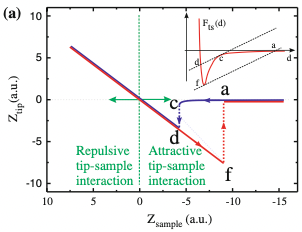
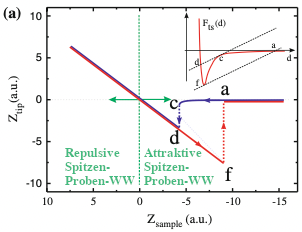
Davids Korrektur

Changed region(s): [[0.2086, 0.6034, 0.447, 0.8147], [0.4768, 0.6336, 0.7152, 0.8147]]

diff --git a/AFM/content/theorie.tex b/AFM/content/theorie.tex
@@ -3,10 +3,12 @@ Die Erfindung des \glqq scanning tunneling microscope\grqq (STM) machte erstmals
 Das grundlegende Konzept beruht dabei auf der Nutzung des stark abstandsabhängigen Tunnelstroms zwischen der Probe und einer scharfen Spitze.
 Eben dieses Funktionsprinzip stellt eine intrinsische Begrenzung des STM dar.
 Nur metallische Oberflächen können mit dieser Methode betrachtet werden.
-Das \glqq atomic force microscope\grqq (AFM) macht es möglich auch nicht-leitende Materialien aufzulösen, da hierbei die Kraft zwischen Spitze und Probe bei Distanzen von ca. $\SI{1}{nm}$ ausgenutzt wird.
-Es bildet die Weiterentwicklung des STM und des stylus profilometers, dessen Auflösung durch die Größe seiner Spitze ($\sim 1\mu m$) begrenzt ist.
+Das \glqq atomic force microscope\grqq (AFM) macht es möglich auch nicht-leitende Materialien aufzulösen.
+Hierbei wird eine auf einem Cantilever angebrachte Spitze benutzt, um die intermolekulare Kraft zwischen Spitze und Probe bei Distanzen von ca. $\SI{1}{nm}$ über die Auslenkung des Cantilevers zu bestimmen.
+So kann ein Höhenprofil der Probe durch Abrastern der Probe erzeugt werden.
+Das AFM bildet die Weiterentwicklung des STM und des \glqq stylus profilometers\grqq, dessen Auflösung durch die Größe seiner Spitze ($\sim 1\mu m$) begrenzt ist.
 Ein weiterer gravierender Vorteil gegenüber dem STM besteht beim AFM darin, dass es auch an der Luft und bei Raumtemperatur bedient werden kann.
-Vor diesem Hintergrund wurden in diesem Experiment mehrere Proben unter diesen Normalbedingungen vermessen, um die Leistungskraft dieses Verfahrens bei der Untersuchung ihrer Topographien aufzuzeigen.
+Vor diesem Hintergrund wurden in diesem Experiment mehrere Proben unter diesen Normalbedingungen vermessen, um die Leistungsfähigkeit des AFM bei der Untersuchung ihrer Topographien aufzuzeigen.
 
 \section{Theorie}
 \subsection{Kraft zwischen Spitze und Probe}
@@ -15,30 +17,32 @@ Vor diesem Hintergrund wurden in diesem Experiment mehrere Proben unter diesen N
     \begin{description}
         \item[Dipol-Dipol-WW:]  Diese Kraft bildet sich zwischen zwei permanent polaren Molekülen aus, die einander anziehen.
         \item[Induktions-WW:]  Kraft zwischen polarem und neutralem Molekül, wobei das Polare dem Neutralen ein magnetisches Dipolmoment induziert.
-        \item[London-Dispersions-WW:]  Diese Kraft wirkt zwischen zwei neutralen Molekülen. Durch Fluktuationen entstehen spontane elektrische Dipole, die sich gegenseitig anziehen.
+        \item[London-Dispersions-WW:]  Diese Kraft wirkt zwischen zwei neutralen Molekülen. Durch quantenmechanisch bedingte Fluktuationen entstehen spontane elektrische Dipole, welche in den umliegenden Molekülen Dipolmomente induzieren. So entsteht eine attraktive Wechselwirkung.
     \end{description}
-    Die letzte überwiegt meist gegenüber den anderen beiden Kräften. \\
+    Da es sich um ein aus einer Vielzahl von Molekülen bestehendes System handelt, ergibt sich die Gesamtwechselwirkung zwischen Spitze und Probe nach dem Gesetz der großen Zahlen als ein konstanter Wert.
+    Die letzte überwiegt meist gegenüber den anderen beiden Kräften, da die wenigsten Moleküle ein großes permanentes Dipolmoment aufweisen. \\
     Unter der Annahme zweier Edelgsatome lässt sich ihr Wechselwirkungspotential mit der Abstandsabhängigkeit
     \begin{equation*}
-        V_{\mathrm{VdW}(r)} \propto -\frac{1}{r^6}
+        V_{\mathrm{VdW}}(r) \propto -\frac{1}{r^6}
     \end{equation*}
     ausdrücken.
 
-    Bei einem Spitzen-Proben Abstand von $< \SI{1}{nm}$ entstehen kurzreichweitige WW aufgrund des Überlapps zwischen den elektronischen Zustandsdichten.
-    Wird der Abstand in fallender Ordnung durchlaufen, so ist die Wechselwirkung erst attraktiv, da durch den Überlapp der äußeren offenen Schalen chemische Bindungen entstehen, die die Gesamtenergie minimieren. \\
-    \setlength{\columnsep}{10pt}
-    \begin{wrapfigure}{r}{0.4\textwidth}
-        \centering\captionsetup{margin={0.5cm,-1cm}, format=plain}
-        \includegraphics[width=0.48\textwidth]{bilder/Lennard_Jones_Potential.png}
-        \caption{Hier ist das Lennard-Jones-Potential, seine zugehörige Kraft und dessen negierte Ableitung dargestellt. \cite{voigtlaender}} \vspace*{-0.5cm}
+    Bei einem Spitzen-Proben Abstand von $< \SI{1}{nm}$ entstehen kurzreichweitige Wechselwirkung (WW) aufgrund des Überlapps zwischen den elektronischen Zustandsdichten.
+    Wird der Abstand verringert, so ist die Wechselwirkung erst attraktiv, da durch den Überlapp der äußeren offenen Schalen chemische Bindungen entstehen, die die Gesamtenergie minimieren. \\
+    \setlength{\columnsep}{15pt}
+    \begin{wrapfigure}{r}{0.55\textwidth}
+        \vspace{-0.5cm}
+        \centering\captionsetup{margin={0.5cm,0cm}, format=plain}
+        \includegraphics[width=0.55\textwidth]{bilder/Lennard_Jones_Potential.png}
+        \caption{Hier ist das Lennard-Jones-Potential dargestellt. \cite{voigtlaender}} \vspace*{-0.5cm}
         \label{fig:Lennard_Jones_Potential}
     \end{wrapfigure}
-    Dann kommen sich die Spitze und Probe so nah, dass die geschlossenen Orbitale überlappen.
+    Bei weiterer Verringerung kommen sich die Spitze und Probe so nah, dass die geschlossenen Orbitale überlappen.
     Die kernnahen Elektronen müssen aufgrund des Pauli-Verbotes in höhere Zustände ausweichen.
     D.h. sie müssen effektiv weiter vom Kern des anderen, an der Wechselwirkung beteiligten, Atoms entfernt sein.
     Diese Wechselwirkung wird durch
     \begin{equation}
-        V_{\mathrm{Pauli}(r)} \propto \frac{1}{r^{12}}
+        V_{\mathrm{Pauli}}(r) \propto \frac{1}{r^{12}}
     \end{equation}
     beschrieben.
     Die gesamte Wechselwirkung zwischen Sptize und Probe lässt sich also in erster Näherung durch das Lennard-Jones-Potential
@@ -47,24 +51,25 @@ Vor diesem Hintergrund wurden in diesem Experiment mehrere Proben unter diesen N
         \label{eqn:Lennard_Jones_Potential}
     \end{equation}
     schreiben, wobei $U_0$ die Tiefe des Potentialminimums ist und $R_a$ der Abstand ist, bei dem $V(r) = 0$ gilt.
-    Im obersten Graphen in \autoref{fig:Lennard_Jones_Potential} ist das Potential mit den soeben beschriebenen Parametern zu erkennen.
+    In \autoref{fig:Lennard_Jones_Potential} ist das Potential mit den soeben beschriebenen Parametern zu erkennen.
     Die gestrichelte Linie grenzt den repulsiven von dem attraktiven Effekt der Wechselwirkung ab.
 
     Eine weitere Kraft, die bei der Wechselwirkung zwischen Spitze und Probe eine große Rolle spielt, ist die elektrostatische Wechselwirkung.
-    Sie entsteht durch unterschiedliche Austrittsarbeiten bzw. durch eine Ladung auf der Spitze und Probe, sodass eine weitere Kraft auf die Spitze wirkt und auf die Kraft-Abstandskurve Einfluss nimmt.
-    Da dies beim AFM nicht erwünscht ist wird eine Bias-Spannung angelegt, die die Potentialdifferenz ausgleichen soll nach 
+    Sie entsteht durch eine Differenz $\upDelta \Phi$ zwischen den unterschiedliche Austrittsarbeiten bzw. durch eine Ladung auf der Spitze und der Probe, sodass eine weitere Kraft auf die Spitze samt Cantilever wirkt und auf die Kraft-Abstandskurve Einfluss nimmt.
+    Da dies beim AFM nicht erwünscht ist wird eine Bias-Spannung $V_{\mathrm{bias}}$ angelegt, die die Potentialdifferenz $\upDelta V$ ausgleichen soll nach 
     \begin{equation}
-        \Delta V = V_{\mathrm{bias}} - \Delta \Phi \cdot e = 0 \quad \Leftrightarrow \quad V_{\mathrm{bias}} = \Delta \Phi \cdot e \;.
+        \upDelta V = V_{\mathrm{bias}} - \upDelta \Phi \cdot e = 0 \quad \Leftrightarrow \quad V_{\mathrm{bias}} = \upDelta \Phi \cdot e \;.
     \end{equation}
     Die Kraft zwischen Spitze und Probe ist näherungsweise gegeben als
     \begin{equation}
-        F_{el}(z) \approx -\pi \epsilon_0 \frac{R}{z} \cdot \Delta V^2 \;,
+        F_{el}(z) \approx -\pi \epsilon_0 \frac{R}{z} \cdot \upDelta V^2 \;,
     \end{equation}
     wenn die Spitze als Kugel auf einem Kegel und die Probe als unendliche Ebene betrachtet wird, wobei $R$ der Radius der Kugel ist.
-    Es ist zu erkennen, dass die Kraft als Funktion der Bias-Spannung $F_{el}(V_{\mathrm{bias}})$ eine umgedrehte Parabel mit einem Maximum an der Stelle $\Delta \Phi \cdot e$ darstellt.
-    Die Differenz Austrittsarbeit zwischen Spitze und Probe kann also durch Auftragen der Kraft gegen die Bias-Spannung bestimmt werden.
+    Es ist zu erkennen, dass die Kraft als Funktion der Bias-Spannung $F_{el}(V_{\mathrm{bias}})$ eine umgedrehte Parabel mit einem Maximum an der Stelle $\upDelta \Phi \cdot e$ darstellt.
+    Die Differenz der Austrittsarbeit zwischen Spitze und Probe kann also durch Auftragen der Kraft gegen die Bias-Spannung bestimmt werden.
 
 \subsection{Snap-to-Contact}
+\label{sec:Snap}
     Ein wichtiges Konzept um die Funktionsweise von AFM-Messungen im Contact-Mode zu verstehen ist der Snap-to-Contact bzw. Snap-out-of-Contact der Spitze zur Probenoberfläche.
     Im dynamischen Modus wird dieser Snap-to-Contact gemieden, da die Oszillation des Cantilevers sonst wegen des schmalen Potentialminimums gestoppt werden würde, mehr dazu in \autoref{sec:messmodi}.
     Aus diesem Grund werden die Bedingungen für den Snap-to-Contact hier betrachtet.
@@ -73,6 +78,11 @@ Vor diesem Hintergrund wurden in diesem Experiment mehrere Proben unter diesen N
     \begin{equation}
         U_{\mathrm{cant}}(z) = \frac{1}{2}k(z - z_0)^2
         \label{eqn:harm_Potential}
+    \end{equation}
+    und der Kraft
+    \begin{equation}
+        F_{\mathrm{cant}}(z) = k(z - z_0)
+        \label{eqn:harm_Kraft}
     \end{equation}
     aproximiert werden.
     Um den Snap-to-Contact zu erklären werden nun aus den beiden in \autoref{fig:Lennard_Jones_Potential} dargestellten Potentialen \eqref{eqn:Lennard_Jones_Potential} und \eqref{eqn:harm_Potential} die zugehörigen Kräfte abgeleitet und in die Betrachtung einbezogen.
@@ -90,7 +100,7 @@ Vor diesem Hintergrund wurden in diesem Experiment mehrere Proben unter diesen N
             \caption{}
             \label{fig:Snap_to_Contact_Kraft}
         \end{subfigure}
-        \caption{\textbf{(a)} Das Lennnard-Jones-Potential für die Spitzen-Proben-WW und ein harmonisches Potential für den Cantilever bei seiner Gleichgewichtsposition $z_0$ bei ausgeschalteter Spitzen-Proben-WW ist dargestellt. \textbf{(b)} Kraft-Abstands-Kurven für verschiedene $z_0$ anhand derer der Snap-to-Contact erklärt wird. \cite{voigtlaender}}
+        \caption{\textbf{(a)} Das Lennnard-Jones-Potential für die Spitzen-Proben-WW und ein harmonisches Potential für den Cantilever bei seiner Gleichgewichtsposition $z_0$ bei ausgeschalteter Spitzen-Proben-WW ist dargestellt. \\ \textbf{(b)} Kraft-Abstands-Kurven für verschiedene $z_0$ anhand derer der Snap-to-Contact erklärt wird. \cite{voigtlaender}}
         \label{fig:Snap_to_Contact}
     \end{figure}
     \FloatBarrier
@@ -104,24 +114,28 @@ Vor diesem Hintergrund wurden in diesem Experiment mehrere Proben unter diesen N
         && \frac{\partial U_{\mathrm{LJ}}}{\partial z} + k(z - z_0) &= 0 \nonumber\\
         \Leftrightarrow && F_{\mathrm{LJ}} &= -F_{\mathrm{cant}} \;.
     \end{alignat}
-    Dieses Kräfte werden in \autoref{fig:Snap_to_Contact_Kraft} graphisch dargestellt.
-    Dabei sind die blauen Geraden die negative Federkraft bei verschiedenen $z_0$. \\
+    Diese Kräfte werden in \autoref{fig:Snap_to_Contact_Kraft} graphisch dargestellt.
+    Dabei sind die blauen Geraden die negative Federkraft des Cantilevers $-F_{\mathrm{cant}}$ bei verschiedenen $z_0$. \\
     Die hinreichende Bedingung
     \begin{alignat}{2}
         && \frac{\partial U_{\mathrm{LJ}}^2}{\partial^2 z} + k &> 0 \nonumber\\[3pt]
         \Leftrightarrow && \frac{\partial F_{\mathrm{LJ}}}{\partial z} &< k
     \end{alignat}
-    bestimmt, ob es sich bei einem Schnittpunkt des roten und blauen Graphen um ein Minimum handelt.
+    bestimmt, ob es sich bei einem Schnittpunkt des roten Graphen und der blauen Geraden um ein Potentialminimum handelt.
     In \autoref{fig:Snap_to_Contact_Kraft} ist zu erkennen, dass sich der Cantilever bei kleinen Auslenkungen vor dem Punkt c immer im Potentialminimum an der Gleichgewichtsposition $z_0$ befindet.
     Doch wird der Cantilever noch näher an die Probe rangebracht, gibt es plötzlich nur noch ein Minimum an der fallenden Flanke des roten Graphen, in das der Cantilever nun springt.
 
-    Der Snap-out-of-Contact passiert bei größeren Spitzen-Proben-Abständen als $z_0^{\mathrm{A}}$ gibt es auch plötzlich nur noch ein Minimum und es geschieht ein Sprung aus Punkt f nach Punkt a.
+    Der Snap-out-of-Contact passiert bei größeren Spitzen-Proben-Abständen als $z_0^{\mathrm{A}}$. Denn dann gibt es plötzlich nur noch ein Minimum und es geschieht ein Sprung aus Punkt f nach Punkt a.
 
     Zum Einen kann ein größerer Gleichgewichtsabstand des Cantilevers gewählt werden (grüne Gerade), um den Snap-to-Contact im dynamischen Modus zu verhindern.
     Zum Anderen ist es möglich die Federkonstante $k$ so groß zu wählen, dass die Steigung der roten Kurve bei jedem $z_0$ kleiner ist als die der blauen Geraden ist (orange gestrichelte Gerade).
     Das führt dazu, dass es nur einen Schnittpunkt im Graphen bzw. nur ein Potentialminimum gibt und so auch kein Sprung zwischen zwei Minimas passiert.
 
 \subsection{Kraft-Abstands-Kurven}
+    Kraft-Abstands-Kurven werden gemessen, indem die Probe an den Cantilever angenähert wird und seine Auslenkung aufgenommen wird, die über das Hook'sche Gesetz proportional zur Kraft zwischen Probe und Spitze ist.
+    Daraus lassen sich Größen wie die maximale Adhäsionskraft und die Elastizität der Probe bestimmen.
+    Es wird also die Position der Probe $z_{\mathrm{sample}}$ und die Position der Spitze $z_{\mathrm{tip}}$ gegeneinander aufgetragen.
+    Beide Koordinaten sind zum besseren Verständnis in \autoref{fig:Cantilever_Auslenkung} graphisch dargestellt.
     \begin{figure}[ht]
         \centering\captionsetup{format=plain}
         \includegraphics[width=0.55\textwidth]{bilder/Cantilever_Auslenkung.png}
@@ -129,21 +143,35 @@ Vor diesem Hintergrund wurden in diesem Experiment mehrere Proben unter diesen N
         \label{fig:Cantilever_Auslenkung}
     \end{figure}
     \FloatBarrier
-    Kraft-Abstands-Kurven werden gemessen, indem die Probe an den Cantilever angenähert wird und seine Auslenkung aufgenommen wird, die über das Hook'sche Gesetz proportional zur Kraft zwischen Probe und Spitze ist.
-    Daraus lassen sich Größen wie die maximale Adhäsionskraft und die Elastizität der Probe bestimmen.
-    Es wird also die Position der Probe $z_{\mathrm{sample}}$ und die Position der Spitze $z_{\mathrm{tip}}$ gegeneinander aufgetragen.
-    Beide Koordinaten sind zum besseren Verständnis in \autoref{fig:Cantilever_Auslenkung} graphisch dargestellt.
-    Eine ideale Kraft-Abstands-Kurve ist in \autoref{fig:Kraft_Abstands_Kurve} zu sehen.
-    Nach dem Snap-to-Contact von Punkt c zu Punkt d, bewegen sich Spitze und Probe gemeinsam weiter, weil die Probe die Spitze nach oben auslenkt.
+    Eine ideale aufgenommene Kraft-Abstands-Kurve ist in \autoref{fig:Kraft_Abstands_Kurve} zu sehen.
+    Wie es schon in \autoref{sec:Snap} erklärt wurde, passieren Sprünge zwischen den Potentialminima, wobei das Inset in \autoref{fig:Kraft_Abstands_Kurve} zum Verständnis der Ursachen der Sprünge beitragen soll.
+    Nach dem Snap-to-Contact von Punkt c zu Punkt d, bewegen sich Spitze und Probe gemeinsam weiter, weil die Probe die Spitze nach oben auslenkt, sodass die Kurve linear steigt.
     Eine weiche Probe würde eindellen und die Kurve würde zumindest in der Nähe von Punkt d eine Steigung kleiner eins besitzen, woraus auf die elastischen Eigenschaften der Probe geschlossen werden kann.
     \begin{figure}[ht]
         \centering\captionsetup{format=plain}
         \includegraphics[width=0.5\textwidth]{bilder/Kraft_Abstands_Kurve.png}
-        \caption{Eine schematische Kraft-Abstands-Kurve, wobei blau die Annäherung von Spitze und Probe und rot ihre Entfernung bedeutet. \cite{voigtlaender}}
+        \caption{Hier wird eine schematische Kraft-Abstands-Kurve dargestellt, die tatsächlich so aufgenommen werden könnte, wobei blau die Annäherung von Spitze und Probe und rot ihre Entfernung bedeutet. Das Inset ist eine vereinfachte Darstellung der \autoref{fig:Snap_to_Contact_Kraft} zum Erklären der Sprünge von c nach d und f nach a. \cite{voigtlaender}}
         \label{fig:Kraft_Abstands_Kurve}
     \end{figure}
     \FloatBarrier
-
+    Für die Berechnung des Elastizitätsmoduls wird zunächst die Kraft
+    \begin{equation}
+        F=\frac{2}{\pi}\tan(\alpha)E^*\rho^2
+    \end{equation}
+    benötigt, mit der die Spitze auf die Probe drückt.
+    Dabei wird angenommen, dass die Spitze eine Kegelform hat.
+    $\alpha$ bezeichnet hierbei den halben Öffnungswinkel der Cantileverspitze.
+    $\rho$ bezeichnet die Eindringtiefe der Spitze in die Oberfläche und $E^*$ die oberflächenelastische Konstante,
+    \begin{equation}
+        E^*=\frac{E}{1-\nu^2},
+    \end{equation}
+    mit der Poissonzahl $\nu$ und dem Elastizitätsmodul $E$ \cite{Elasti}, welches die Elastizität des Materials ausdrückt.
+    Somit lassen sich diese Gleichungen umformen zu
+    \begin{equation}
+        E=\frac{F\pi(1-\nu^2)}{2\tan(\alpha)\rho^2},
+    \end{equation}
+    wobei die Eindringtiefe der Spitze in die Teflon-Oberfläche $\rho$ und die Kraft $F$, mit der die Spitze auf die Probe drückt, aus den Messdaten bestimmt werden müssen.
+    
 \subsection{Cantilever und Spitze}
 \label{sec:cantilever}
     \setlength{\columnsep}{25pt}
@@ -158,7 +186,7 @@ Vor diesem Hintergrund wurden in diesem Experiment mehrere Proben unter diesen N
     
     Da eine atomare Auflösung erreicht werden soll, muss der Cantilever sensitiv genug sein, um durch die Wechselwirkung zwischen zwei einzelnen Atomen ausgelenkt zu werden.
     Als Aproximation wird das Atom A in \autoref{fig:Federkraftkonstante} als ein harmonischer Oszillator mit einer Vibrationsfrequenz von $\omega_{\mathrm{vib}} = 10^{13}\,$Hz und einer Atommasse von $m = 10^{-25}\,$kg angenommen.
-    Beides sind typische Werte für Festkörper.
+    Beides sind typische Werte für Festkörper entnommen aus \cite{wiesendanger}.
     Damit ergibt sich eine kleine Federkonstante von
     \begin{equation}
         \omega_{\mathrm{vib}} = \sqrt{\frac{k}{m}} \qquad \Leftrightarrow \qquad k = \omega_{\mathrm{vib}}^2 m \approx 10\,\si{Nm^{-1}}
@@ -166,18 +194,18 @@ Vor diesem Hintergrund wurden in diesem Experiment mehrere Proben unter diesen N
     für die Atombindung zwischen Atom A und seinen Nachbarsatomen.
     Mit typischen Atomabständen von ca. $10^{-10}\,$m, erhält man in erster Näherung mit dem Hookschen Gesetz Atomkräfte im Bereich von Nanonewton.
     Um sensitiv gegenüber diesen Kräften zu sein, sollte der Cantilever eine Federkonstante in der gleichen Größenordnung wie die Atombindungen besitzen.
-    Im Umkehrschluss heißt das, dass dieser auch im Angströmbereich ausgelenkt wird.
+    Im Umkehrschluss heißt das, dass dieser auch im \r{A}ngströmbereich ausgelenkt wird.
     Die erste Bedingung an den Cantilever ist also, dass er eine kleine Federkraftkonstante haben bzw. weich sein soll.
 
-    Außerdem sollte das AFM vor externen Vibrationen, wie z.B. Gebäudeschwingungen von ca. \SI{100}{Hz}, geschützt sein.
+    Außerdem sollte das AFM vor externen Vibrationen, wie z.B. Gebäudeschwingungen von ca. \SI{100}{Hz}, geschützt sein, da AFM-Bilder über längere Zeitskalen aufgenommen werden und solche Vibrationen Satellitenlinien verursachen können.
     Dies wird durch eine sehr hohe Resonanzfrequenz des Cantilevers $\gg \SI{10}{kHz}$ erreicht, was die zweite Bedingung an den Cantilever darstellt.
     Zusätzlich sind dadurch hohe Scangeschwindigkeiten möglich.
     
     Beide Bedingungen können nach $\omega_{\mathrm{cant}} = \sqrt{\frac{k}{m}}$ nur gleichzeitig erfüllt sein, wenn die Masse des Cantilevers sehr klein ist.
-    Für eine Frequenz von $\omega_{\mathrm{cant}} = \SI{100}{kHz}$ und eine von Federkonstante $k = \SI{10}{Nm^{-1}}$ muss der Cantilever ca. $\SI{1}{\mu m}$ wiegen, um beide Bedingungen zu erfüllen.
+    Für eine Frequenz von $\omega_{\mathrm{cant}} = \SI{100}{kHz}$ und eine von Federkonstante $k = \SI{10}{Nm^{-1}}$ muss der Cantilever ca. $\SI{1}{\micro m}$ wiegen, um beide Bedingungen zu erfüllen.
 
     Die Spitze sollte einen möglichst kleinen Spitzenradius und einen schmalen Abschluss besitzen, da die Strukturen in den AFM-Bilder immer um die Spitzenbreite verbreitert werden.
-    Das gemessene Bild ist also eine Faltung zwischen Spitze und Probentopographie, wie in \autoref{fig:Spitze_Probe_Faltung} zu sehen ist.
+    Das gemessene Bild ist also eine Faltung zwischen der Spitzeform und Probentopographie, wie es in \autoref{fig:Spitze_Probe_Faltung} schematisch skizziert ist.
     \begin{figure}[ht]
         \centering\captionsetup{format=plain}
         \includegraphics[width=0.8\textwidth]{bilder/Spitze_Probe_Faltung.png}
@@ -187,14 +215,15 @@ Vor diesem Hintergrund wurden in diesem Experiment mehrere Proben unter diesen N
 
 \subsection{Detektion}
 \label{sec:detektion}
-    Wie in \autoref{sec:cantilever} bereits erklärt, wird der Cantilever bei der Messung im Angströmbereich ausgelenkt.
+    Wie in \autoref{sec:cantilever} bereits erklärt, wird der Cantilever bei der Messung im \r{A}ngströmbereich ausgelenkt.
     Die Detektionsmethode sollte das System möglichst nicht stören z.B. durch Kraftauswirkung auf den Cantilever oder Erwärmung.
-    Im folgenden werden ein paar verschiedene Methoden angesprochen.
+    Im Folgenden werden ein paar verschiedene Methoden erläutert.
 
-    \newpage
+    % \newpage
     \subsubsection*{Laserreflektion}
         % \setlength{\columnsep}{50pt}
         \begin{wrapfigure}{r}{0.4\textwidth}
+            \vspace{-0.6cm}
             \centering\captionsetup{margin={0.5cm,-1cm}, format=plain}
             \includegraphics[width=0.4\textwidth]{bilder/Viersegmentphotodiode.png}
             \caption{Schematische Darstellung der Laserreflektionsmethode. \cite{voigtlaender}} \vspace*{-0.3cm}
@@ -212,25 +241,26 @@ Vor diesem Hintergrund wurden in diesem Experiment mehrere Proben unter diesen N
 
     \subsubsection*{Interferometrie}
         Eine aufbautechnisch aufwändigere optische Methode ist die Interferometriemethode zur Messung der Auslenkung des Cantilevers.
-        Wie auch bei der anderen optischen Methode der Laserreflektion geht die Interaktion mit dem Cantilever nur vom Strahlungsdruck im Bereich von $10^{-12}\,$N aus, was vernachlässigbar klein ist.
+        Es wird der Phasenabstand zwischen dem, am ausgelenkten Cantilever, reflektierten Strahl und einem Referenzstrahl durch Interferenz bestimmt.
+        Daraus kann wiederum die Auslenkung des Cantilevers errechnet werden.
+
+    \subsubsection*{Probleme}
+        Bei den beiden oben genannten optischen Methoden der Detektion geht die Interaktion mit dem Cantilever nur vom Strahlungsdruck im Bereich von $10^{-12}\,$N aus, was vernachlässigbar klein ist.
         Außerdem ist hier die Größe des Cantilevers durch die Wellenlänge nach unten beschränkt, denn das Beugungslimit besagt, dass Licht nicht mehr als auf ca. seine halbe Wellenlänge fokussiert werden kann.
         Dies begrenzt somit die Sensitivität bzw. die Entkopplung von mechanischen Störungen, wie in \autoref{sec:cantilever} besprochen und damit die mögliche Auflösung.
         Ein weiteres Limit der optischen Methoden bildet das Schrotrauschen der Detektoren bei hohen Scangeschwindigkeiten.
         Schrotrauschen entsteht dadurch, dass nur paar Photonen in der kurzen Zeit einer Messung auf die Detektoren treffen und die gemessene Intensität pro Messung stark fluktuiert, nach dem Gesetz der großen Zahlen.
 
-        Es wird der Phasenabstand zwischen dem am ausgelenkten Cantilever reflektierten Strahl und einem Referenzstrahl durch Interferenz bestimmt.
-        Daraus kann wiederum die Auslenkung des Cantilevers errechnet werden.
-
-    \subsubsection*{STM}
-        Eine weitere Möglichkeit bietet die Messung mithilfe eines STM.
-        Durch die extreme räumliche Nähe und einer Potentialdifferenz der STM-Spitze zum Cantilever fließt ein extrem abstandsabhängiger Tunnelstrom, der es ermöglicht eine Sensitivität von $0,01\,\si{\angstrom}$ zu erreichen.
-        Typische Tunnelströme sind jedoch sehr klein (nA) und bedürfen großer Verstärkung.
-        Im dynamischen Messmodi, wo der Cantilever mit Resonanzfrequenzen von $30-100\,$kHz oszilliert würde also kein nennenswerter Tunnelstrom gemessen werden.
-        Das Gleiche gilt für hohe Scangeschwindigkeiten.
-        Aus diesem Grund diese Methode nur für statische Messungen verwendet.
-        Zudem muss der Cantilever sauber sein, um zu verhindern, dass der Tunnelstrom durch Kontaminationen abgeschirmt wird und die STM-Spitze auf den Cantilever aufdrückt, um den Tunnelstrom aufrecht zu erhalten.
-        Einen schwerwiegenden Nachteil bildet der komplizierte Aufbau, da das STM nur im UHV benutzt werden kann.
-        Bei Messungen, die ohnehin im Vakuum und bei tiefen Temperaturen durchgeführt werden müssen, bietet sich diese Methode jedoch an, da optische Detektionsmethoden bei solch thermisch empfindlichen Systemen eine Erwärmung auslösen könnten.
+    % \subsubsection*{STM}
+    %     Eine weitere Möglichkeit bietet die Messung mithilfe eines STM.
+    %     Durch die extreme räumliche Nähe und einer Potentialdifferenz der STM-Spitze zum Cantilever fließt ein extrem abstandsabhängiger Tunnelstrom, der es ermöglicht eine Sensitivität von $0,01\,\si{\angstrom}$ zu erreichen.
+    %     Typische Tunnelströme sind jedoch sehr klein (nA) und bedürfen großer Verstärkung.
+    %     Im dynamischen Messmodi, wo der Cantilever mit Resonanzfrequenzen von $30-100\,$kHz oszilliert würde also kein nennenswerter Tunnelstrom gemessen werden.
+    %     Das Gleiche gilt für hohe Scangeschwindigkeiten.
+    %     Aus diesem Grund diese Methode nur für statische Messungen verwendet.
+    %     Zudem muss der Cantilever sauber sein, um zu verhindern, dass der Tunnelstrom durch Kontaminationen abgeschirmt wird und die STM-Spitze auf den Cantilever aufdrückt, um den Tunnelstrom aufrecht zu erhalten.
+    %     Einen schwerwiegenden Nachteil bildet der komplizierte Aufbau, da das STM nur im UHV benutzt werden kann.
+    %     Bei Messungen, die ohnehin im Vakuum und bei tiefen Temperaturen durchgeführt werden müssen, bietet sich diese Methode jedoch an, da optische Detektionsmethoden bei solch thermisch empfindlichen Systemen eine Erwärmung auslösen könnten.
 
 \subsection{Messmodi}
 \label{sec:messmodi}
@@ -241,7 +271,7 @@ Vor diesem Hintergrund wurden in diesem Experiment mehrere Proben unter diesen N
     Während des Abrastern der Probe wird die Auslenkung des Cantilevers konstant gehalten, indem der Spitzen-Proben-Abstand über einen Feedbackloop kontinuirlich nachgeregelt wird.
     Zu Anfang der Messung muss deshalb zuerst ein Abstand gewählt werden, welcher eingehalten werden soll.
     Die Spitze kann entweder durch den Snap-to-Contact direkt auf der Probe abgesetzt werden und man arbeitet im repulsiven contact-Bereich, oder der Abstand wird so gewählt, dass man sich noch im attraktiven non-contact-Bereich befindet.
-    Der contact-Modus verursacht größere Schäden an der Probe, was vor allem bei weicher biologischer Materie vermieden werden soll.
+    Der contact-Modus kann bei besonders empfindlichen Proben größere Schäden verursachen, was vor allem bei weicher biologischer Materie vermieden werden soll.
     Falls die Probe durch einen Flüssigkeitsfilm kontaminiert ist, nehmen Messungen im non-contact-Modus nicht die unterliegende Oberfläche, sondern die adsorbierte Kontamination auf.
 
     Im constant-height Modus wird die Spitze bei einer konstanten Höhe gehalten und die Auslenkung des Cantilevers wird aufgenommen.
@@ -283,7 +313,7 @@ Vor diesem Hintergrund wurden in diesem Experiment mehrere Proben unter diesen N
         \begin{figure}[ht]
             \centering\captionsetup{format=plain}
             \includegraphics[width=0.5\textwidth]{bilder/Piezo_Creep.png}
-            \caption{Es ist der Creep nach einem plötzlichen Spannungssprung dargestellt. $Y_{\mathrm{step}}$ ist dabei die gesamte und $\Delta Y$ die durch den Creep verursachte Verschiebung. \cite{Compensation_of_Scanner_Creep}}
+            \caption{Es ist der Creep nach einem plötzlichen Spannungssprung dargestellt. $Y_{\mathrm{step}}$ ist dabei die gesamte und $\upDelta Y$ die durch den Creep verursachte Verschiebung. \cite{Compensation_of_Scanner_Creep}}
             \label{fig:Piezo_Creep}
         \end{figure}
         Um Creep vorzubeugen werden Positionssensoren, siehe \autoref{sec:detektion}, in Verbindung mit einem Feedbackloop genutzt.

diff --git a/AFM/content/durchfuehrung.tex b/AFM/content/durchfuehrung.tex
@@ -4,7 +4,7 @@
 \label{sec:Aufbau}
     \begin{figure}[ht]
         \centering\captionsetup{format=plain}
-        \includegraphics[width=0.6\textwidth]{bilder/Aufbau.png}
+        \includegraphics[width=0.75\textwidth]{bilder/Aufbau.png}
         \caption{Hier ist der schematische Aufbau des benutzten AFM dargestellt. \cite{anleitung}}
         \label{fig:Aufbau}
     \end{figure}
